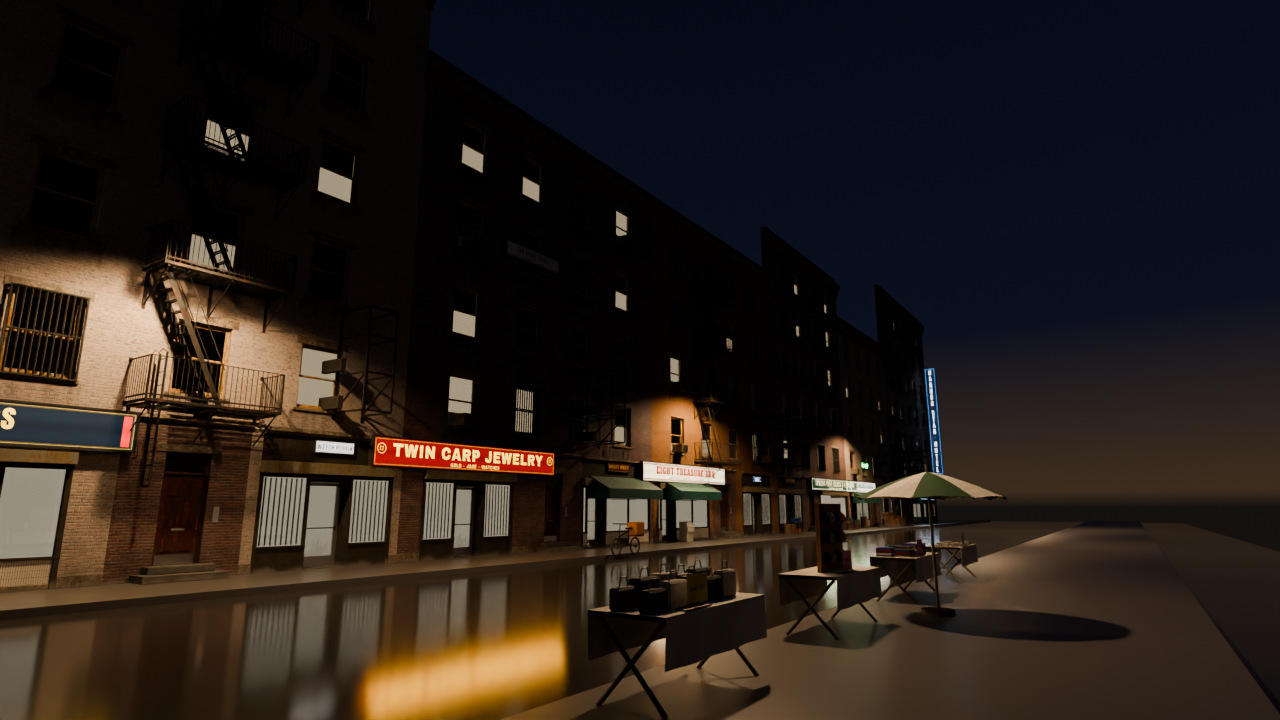
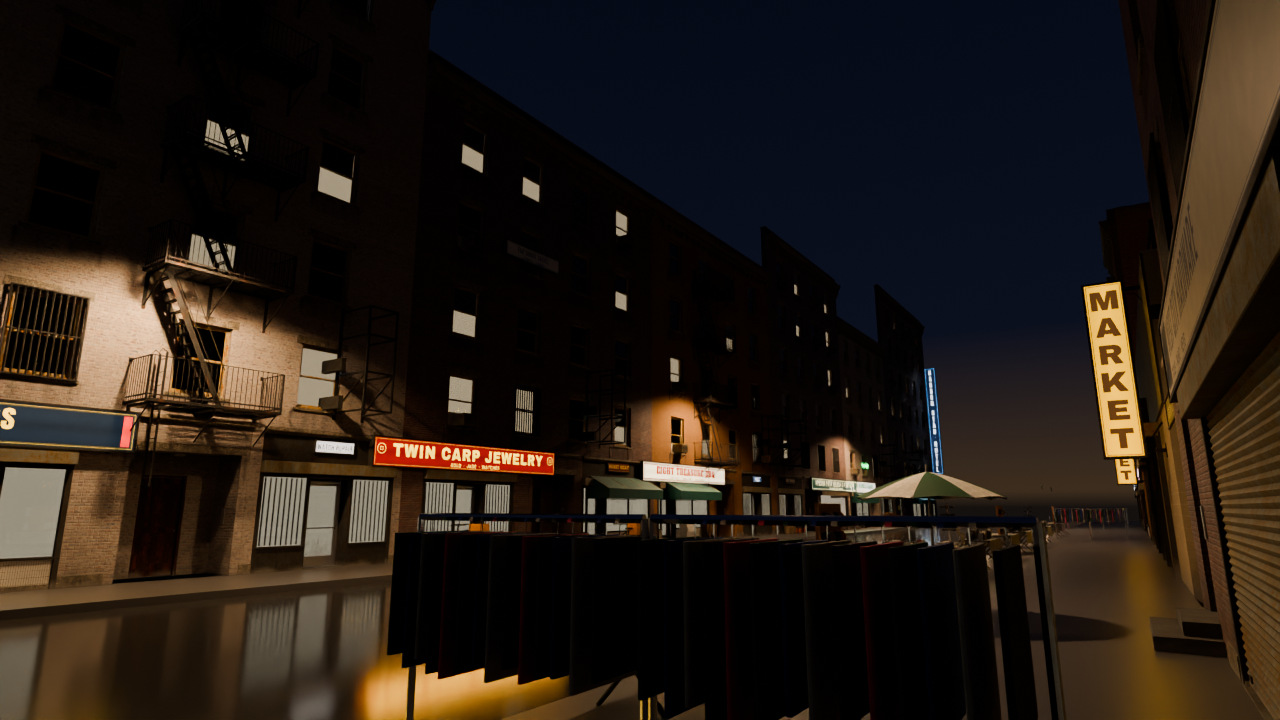
Canal Street round 2 finished: the signs on every front, the checks for fit, stretch, signs and props, the worst view with every placed piece, six street views, chinatown_art.md, MAPS.md and the art README
Claude-Session: https://claude.ai/code/session_01HkcHdD7NbyxwnFfuuSpZY4

diff --git a/art/blender/assets/_chinatown_preview.py b/art/blender/assets/_chinatown_preview.py
@@ -125,7 +125,26 @@ def wash(col, p, colour, watts=120.0, size=(3.0, 0.6), facing=(0.0, -1.0, 0.0)):
 
 # ================================================================================================= pictures
 
-def canal_north(ctx, a):
+def level_ground(col):
+    """The level's walking surfaces as flat rectangles (level_chinatown.json `ground.surfaces`): asphalt at 0, the rest at the
+    kerb height 0.15 (a stand-in: the real street is the Block's street kit with wetness)."""
+    from assets import _chinatown_level as lv
+    asph = mat.flat("Prev_WetAsphalt", (0.035, 0.034, 0.033), 0.12)
+    walk = mat.flat("Prev_DampConcrete", (0.11, 0.105, 0.10), 0.32)
+    base = geo.box((100.0, 80.0, 0.02), bevel=0.0, name="PrevBase")
+    geo.transform(base, loc=(0.0, 0.0, -0.03))
+    base.data.materials.append(asph)
+    scene.link(base, col)
+    for sf in lv.level()["ground"]["surfaces"]:
+        w = sf["web"]
+        h = 0.02 if sf["surface"] == "asphalt" else 0.15
+        o = geo.box((w["maxX"] - w["minX"], w["maxZ"] - w["minZ"], h), bevel=0.0, name="PrevSurf")
+        geo.transform(o, loc=((w["minX"] + w["maxX"]) / 2, -(w["minZ"] + w["maxZ"]) / 2, h / 2 - (0.02 if h < 0.1 else 0.0)))
+        o.data.materials.append(asph if sf["surface"] == "asphalt" else walk)
+        scene.link(o, col)
+
+
+def canal_north(ctx, a, view=None):
     from assets import facade
     T0 = type(ctx)
     fctx = T0("facade", a)
@@ -154,25 +173,32 @@ def canal_north(ctx, a):
                 if sl.material and sl.material.name.startswith("MI_Interior_Dark"):
                     sl.link = "OBJECT"
                     sl.material = lit
-    ground(col, -60, 60, 10, 40, kerb_y=29.8, side=+1)
-    walk2 = geo.box((120, 5.0, 0.15), bevel=0.0, name="PrevWalkS")
-    geo.transform(walk2, loc=(0, 16.5, 0.0))
-    walk2.data.materials.append(bpy.data.materials["Prev_DampConcrete"])
-    scene.link(walk2, col)
-    for i, x in enumerate((-38.0, -34.0, -30.0, -26.0)):                        # the vendor table strip (web z -18.8..-17.8)
+    if view:
+        level_ground(col)
+    else:
+        ground(col, -60, 60, 10, 40, kerb_y=29.8, side=+1)
+        walk2 = geo.box((120, 5.0, 0.15), bevel=0.0, name="PrevWalkS")
+        geo.transform(walk2, loc=(0, 16.5, 0.0))
+        walk2.data.materials.append(bpy.data.materials["Prev_DampConcrete"])
+        scene.link(walk2, col)
+    for i, x in enumerate((-38.0, -34.0, -30.0, -26.0) if not view else ()):                        # the vendor table strip (web z -18.8..-17.8)
         put(ctx.K["SM_Prop_CT_VendorTable"], (x + 0.9, 18.3, 0.15), 0.0, 1.0, col)
         put(ctx.K["SM_Prop_CT_Goods_" + ("Bags", "Caps", "TShirts", "Discs")[i]], (x + 0.9, 18.3, 0.15 + 0.753), 0.0, 1.0, col)
         put(ctx.K["SM_Sign_CT_Placard"], (x + 0.4, 17.95, 0.15 + 0.753), 0.0, 1.0, col,
             ("PlacardBags", "PlacardThree", "PlacardThree", "PlacardCDs")[i])
-    put(ctx.K["SM_Prop_CT_MarketUmbrella"], (-31.0, 17.4, 0.15), 0.0, 1.0, col)
-    put(ctx.K["SM_Prop_CT_EBike"], (-22.5, 29.2, 0.15), 180.0, 1.0, col)
-    # the shops' goods on the sidewalk (the level's spill colliders): N4's dried goods and grocery produce, N3's crates
-    for x, key in ((-0.2, "DryGoods"), (8.2, "Produce_Citrus"), (9.8, "Produce_Mixed"), (11.4, "Produce_Greens"),
-                   (-13.0, "StyrofoamBoxes"), (14.6, "HandTruck")):
-        put(ctx.K["SM_Prop_CT_" + key], (x, 32.35, 0.15), 0.0, 1.0, col)
-    put(ctx.K["SM_Prop_CT_FruitStand"], (23.7, 32.3, 0.15), 0.0, 1.0, col)
-    render.rig_night(lamp=(-30.0, 21.0, 8.0), extra_lamps=[(-6.0, 21.0, 8.0), (18.0, 21.0, 8.0), (-36.0, 30.4, 8.0), (-12.0, 30.4, 8.0),
-                                                       (12.0, 30.4, 8.0)], lamp_watts=1800.0, sky=0.8)
+    if not view:
+        put(ctx.K["SM_Prop_CT_MarketUmbrella"], (-31.0, 17.4, 0.15), 0.0, 1.0, col)
+        put(ctx.K["SM_Prop_CT_EBike"], (-22.5, 29.2, 0.15), 180.0, 1.0, col)
+        # the shops' goods on the sidewalk (the level's spill colliders): N4's dried goods and grocery produce, N3's crates
+        for x, key in ((-0.2, "DryGoods"), (8.2, "Produce_Citrus"), (9.8, "Produce_Mixed"), (11.4, "Produce_Greens"),
+                       (-13.0, "StyrofoamBoxes"), (14.6, "HandTruck")):
+            put(ctx.K["SM_Prop_CT_" + key], (x, 32.35, 0.15), 0.0, 1.0, col)
+        put(ctx.K["SM_Prop_CT_FruitStand"], (23.7, 32.3, 0.15), 0.0, 1.0, col)
+    if view:
+        render.rig_night(lamp=view["lamps"][0], extra_lamps=view["lamps"][1:], lamp_watts=1800.0, sky=0.8)
+    else:
+        render.rig_night(lamp=(-30.0, 21.0, 8.0), extra_lamps=[(-6.0, 21.0, 8.0), (18.0, 21.0, 8.0), (-36.0, 30.4, 8.0), (-12.0, 30.4, 8.0),
+                                                           (12.0, 30.4, 8.0)], lamp_watts=1800.0, sky=0.8)
     sun = bpy.data.lights.new("PrevCityGlow", "SUN")                            # the rig's key: cool city glow, no shadow (11.1)
     sun.energy, sun.color, sun.use_shadow = 0.04, (0.56, 0.65, 0.84), False
     so = bpy.data.objects.new("PrevCityGlow", sun)
@@ -193,7 +219,10 @@ def canal_north(ctx, a):
                 else:
                     wash(rig, (x, y - 1.0, z + F["h"] / 2), F["glow"], 60.0, (0.6, F["h"]), (0, -1, -0.2))
     render.look(render.VIEW, render.LOOK_NIGHT, 0.2)
-    render.cam_look((-43.0, 14.8, 1.75), (-16.0, 33.0, 8.5), lens=20, name="Cam_CanalNorth")
+    if view:
+        render.cam_look(view["eye"], view["target"], lens=view.get("lens", 20), name="Cam_" + view["name"])
+    else:
+        render.cam_look((-43.0, 14.8, 1.75), (-16.0, 33.0, 8.5), lens=20, name="Cam_CanalNorth")
 
 
 def market(ctx, a):
@@ -307,7 +336,24 @@ def render_all(ctx):
         cells = json.load(open(os.path.join(paths.texture_set("Sign_CT_Atlas1"), "set.json")))["cells"]
         atlas.preview_sheet(os.path.join(PV, "ct_sign_atlas.jpg"), cells, 1280)
         ctx.log("preview ct_sign_atlas.jpg")
-    for name, fn in (("ct_market", market), ("ct_street", street), ("ct_canal_north", canal_north)):
+    import functools
+    # round 2: the finished streets from the player's eye (Blender metres; web z = -y)
+    VIEWS = {
+        "ct_canal_start": dict(name="Start", eye=(-41.0, 24.0, 1.7), target=(-12.0, 28.0, 3.5), lens=18,
+                               lamps=[(-34.0, 22.0, 8.0), (-14.0, 22.0, 8.0), (-34.0, 30.4, 8.0), (-12.0, 30.4, 8.0), (10.0, 22.0, 8.0)]),
+        "ct_canal_east": dict(name="East", eye=(-3.0, 23.0, 1.7), target=(24.0, 17.5, 3.5), lens=20,
+                              lamps=[(2.0, 22.0, 8.0), (22.0, 22.0, 8.0), (30.0, 22.0, 8.0), (14.0, 30.4, 8.0), (-6.0, 30.4, 8.0)]),
+        "ct_mott": dict(name="Mott", eye=(13.0, 18.0, 1.7), target=(13.0, -8.0, 3.0), lens=20,
+                        lamps=[(13.0, 12.0, 8.0), (13.0, 0.0, 8.0), (13.0, -10.0, 8.0), (9.5, 24.0, 8.0)]),
+        "ct_square": dict(name="Square", eye=(22.0, -3.5, 1.7), target=(38.0, -17.0, 3.0), lens=18,
+                          lamps=[(26.0, -6.0, 8.0), (36.0, -6.0, 8.0), (30.0, -12.0, 8.0), (40.0, -14.0, 8.0)]),
+        "ct_alley": dict(name="Alley", eye=(-28.0, 12.5, 1.7), target=(-28.0, -12.0, 3.5), lens=20,
+                         lamps=[(-28.0, 10.0, 8.0), (-28.0, 0.0, 8.0), (-28.0, -10.0, 8.0)]),
+        "ct_yard": dict(name="Yard", eye=(-4.0, -7.0, 1.7), target=(-16.0, -4.0, 3.0), lens=18,
+                        lamps=[(-8.0, -4.0, 8.0), (-18.0, -4.0, 8.0), (-2.0, -9.0, 8.0)]),
+    }
+    for name, fn in (("ct_market", market), ("ct_street", street), ("ct_canal_north", canal_north)) + tuple(
+            (n, functools.partial(canal_north, view=v)) for n, v in VIEWS.items()):
         if not want(name):
             continue
         for c in list(bpy.data.collections):

diff --git a/art/blender/assets/_chinatown_check.py b/art/blender/assets/_chinatown_check.py
@@ -148,8 +148,42 @@ def check_outputs():
     pl = load(os.path.join(paths.out, "placements", "placements_chinatown.json"))
     unknown = sorted({e["mesh"] for e in pl["instances"] if e["mesh"] not in shared})
     noface = [e["mesh"] for e in pl["instances"] if e.get("face") and "atlas_uv" not in e]
+    check_fit(pl, shared)
     report(not unknown and not noface, "placements", "%d instances of %d meshes, unknown %s, faces without a cell %s"
            % (pl["count"], len({e["mesh"] for e in pl["instances"]}), unknown or 0, noface or 0))
+
+
+def check_fit(pl, shared):
+    """11 fit      every structure's vertices inside its lane D colliders (or a named allowed region), 0 unexplained; every
+                 structure placed at its colliders' min corner; every north-row alcove is the real recess
+       12 stretch  no instance anywhere is scaled (the review's rule)
+       13 signs    every shop front of every face has a sign on its face within 8 m (assets/_chinatown_streets.sign_coverage)
+       14 props    every prop of lane D that has a mesh stands on its colliders: the worst overhang"""
+    from assets import _chinatown_level as lv
+    fit = os.path.join(paths.out, "chinatown", "fit_chinatown.json")
+    if not os.path.exists(fit):
+        report(False, "fit", "no %s" % fit)
+        return
+    rep = load(fit)
+    bad = {k: v["outside_unexplained"] for k, v in rep["structures"].items() if v["outside_unexplained"]}
+    placed = {e["mesh"]: e for e in pl["instances"] if e["role"] == "structure"}
+    off = []
+    for name, piv, _cols in lv.struct_places():
+        e = placed.get(name)
+        if not e or max(abs(a - b) for a, b in zip(e["blender_m"], piv)) > 1e-3:
+            off.append(name)
+    report(not bad and not off and len(rep["structures"]) == len(lv.STRUCTS), "fit",
+           "%d structures fitted to %d colliders of %s: %d vertices outside, unexplained %s, misplaced %s"
+           % (len(rep["structures"]), sum(v["colliders"] for v in rep["structures"].values()), rep["level"],
+              sum(v["outside_colliders"] for v in rep["structures"].values()), bad or 0, off or 0))
+    scaled = [e["mesh"] for e in pl["instances"] if e.get("scale")]
+    report(not scaled, "stretch", "%d instances, %d scaled %s" % (pl["count"], len(scaled), sorted(set(scaled))[:5] or ""))
+    from assets import _chinatown_streets as st
+    nfr, miss = st.sign_coverage(pl["instances"])
+    report(not miss, "signs", "%d shop fronts, every one with a sign over it; without: %s" % (nfr, miss or 0))
+    worst = max((r["overhang_m"] for r in pl.get("propFit", [])), default=0.0)
+    report(worst <= 1.1, "props", "%d prop groups on their colliders, worst overhang %.2f m (jersey barriers 3 m on shorter boxes)"
+           % (len(pl.get("propFit", [])), worst))
 
 
 def check_views():
@@ -164,8 +198,11 @@ def check_views():
         return
     for b, r in rows.items():
         print("    %s: %s" % (b, r))
-    report(prox <= 550000, "views", "worst view 1, north row: %d triangles with every module at LOD0, %d with the far proxies past "
-           "%.0f m (budget 1.5 M, aim 1.1 M for the whole view; the north row's share at most 0.55 M)" % (full, prox, lod.LOD_SWITCH))
+    north = sum(r["trianglesDrawn"] for b, r in rows.items() if b in ("N1", "N2", "N3", "N4", "N5", "N6"))
+    report(prox <= 1500000 and north <= 550000, "views",
+           "worst view 1, every placed piece in the frustum: %d triangles with every module at LOD0, %d with the far proxies past "
+           "%.0f m (budget 1.5 M; aim 1.1 M: %s); the north row's share %d (at most 0.55 M)"
+           % (full, prox, lod.LOD_SWITCH, "met" if prox <= 1100000 else "over by %d, the props' LODs are the lever" % (prox - 1100000), north))
 
 
 def check_block():

diff --git a/art/blender/assets/_chinatown_streets.py b/art/blender/assets/_chinatown_streets.py
@@ -147,6 +147,8 @@ DEVIATIONS = {
                                        "alley wall at the same z and height"),
     "m.letters": dict(why="the frame stands on lane D's four legs (x -22 .. -2): the 12 m letters centre on the legs (x -12), "
                           "1 m east of lane D's point"),
+    "arcade.kiosk.3": dict(x=33.58, why="lane D's point (x 32.55) is 1.05 m out in the arcade's aisle: the board is mounted on the "
+                                         "east wall (x 33.6) at the same z and height, over the narrow front that has no other sign"),
     "lanterns": dict(y=6.25, why="lane D's point (y 4.3) is in front of the banquet band (3.95 .. 4.85): the cable is fixed at "
                                  "6.25 so the lanterns hang clear above the band, over the doors"),
 }
@@ -175,8 +177,10 @@ def ground(F, brick, segs, out):
     for seg in segs:
         k = seg[0]
         if k == "pier":
-            out.append(fe(F, pier_mesh(brick, seg[1]), s, 0.0, 0.0, "pier"))
-            s += seg[1]
+            parts = max(1, int(math.ceil(seg[1] / 4.2 - 1e-9)))              # a wide wall is made of piers of at most 4.2 m
+            for _i in range(parts):
+                out.append(fe(F, pier_mesh(brick, seg[1] / parts), s, 0.0, 0.0, "pier"))
+                s += seg[1] / parts
         elif k == "front":
             f, sign = seg[1], seg[2]
             c = FRONTS[f]
@@ -404,6 +408,9 @@ def data_signs(shops, out, report):
         x, y = F.at(s_c - ww / 2, -d)
         role = {"band": "sign band", "kiosk": "shop sign", "board": "board", "poster": "poster", "neon": "neon",
                 "arch": "arch sign"}[kind]
+        if kind == "neon":                                   # exposed neon is its own mesh: no atlas cell
+            extra["neon"] = fk
+            fk = None
         out.append(mk(carrier, x, y, zb, rot, bld, role, face=fk, faceKey=F.key, **extra))
 
 
@@ -411,7 +418,7 @@ def data_signs(shops, out, report):
 
 # catalogue name -> [(mesh, length along its X, width along its Y)] (tiled along the collider's long side), options
 PROPS = {
-    "stall_counter": ([("SM_Prop_CT_StallCounter_2m", 2.04, 1.876), ("SM_Prop_CT_StallCounter_2p5m", 2.54, 1.876)], {}),
+    "stall_counter": ([("SM_Prop_CT_StallCounter_2m", 2.04, 1.876)], {}),
     "fish_counter": ([("SM_Prop_CT_FishCounter", 2.0, 1.03)], {}),
     "pallet_stack": ([("SM_Furn_PalletStack_A", 1.23, 1.03)], {}),
     "pallet_single": ([("SM_Furn_Pallet", 1.2, 1.0)], {}),

diff --git a/art/blender/assets/_chinatown_place.py b/art/blender/assets/_chinatown_place.py
@@ -136,7 +136,8 @@ def ground(key, B, out):
             F = names.FACES[B["band"]]
             out.append(entry(F["carrier"], s + c / 2 - F["w"] / 2, 2.76, -0.075 - 0.20, x0, key, "sign band", face=B["band"]))
         elif sign in ("ForLease", "ForRent"):
-            out.append(entry(names.FACES[sign]["carrier"], s + 0.15, 1.35, -0.09, x0, key, "vacant sign", face=sign))
+            out.append(entry(names.FACES[sign]["carrier"], s + c / 2 - names.FACES[sign]["w"] / 2, 1.35, -0.09, x0, key, "vacant sign",
+                             face=sign))
         else:
             F = names.FACES[sign]
             z = 3.05 if F["kind"] == "kiosk" else 3.10

diff --git a/art/blender/assets/chinatown.py b/art/blender/assets/chinatown.py
@@ -48,7 +48,7 @@ BUDGET = {
     "SM_Prop_CT_EBike": 6000, "SM_Prop_CT_": 6000, "SM_Facade_CT_Far_": 12000, "SM_Struct_CT_MarketHall": 40000, "SM_Struct_CT_ColdRoom": 6000,
     "SM_Struct_CT_RoofBulkhead": 4000, "SM_Struct_CT_YardStair": 12000, "SM_Struct_CT_SidewalkShed": 10000,
     "SM_Struct_CT_BakeryKitchen": 12000, "SM_Struct_CT_Arcade": 8000, "SM_Struct_CT_BanquetFacade": 40000,
-    "SM_Facade_CT_Alcove_": 4000, "SM_Facade_CT_Ground": 4000, "SM_Facade_CT_Head_": 1500, "SM_Facade_CT_": 6000,
+    "SM_Facade_CT_Alcove_": 9000, "SM_Facade_CT_Ground": 4000, "SM_Facade_CT_": 6000,
 }
 
 

diff --git a/docs/unreal/maps/chinatown_art.md b/docs/unreal/maps/chinatown_art.md
@@ -1,0 +1,99 @@
+# Canal Street art, round 2: the other buildings, the signs, the props and the fitted structures (lane A-CT)
+
+What MAPS.md lane A-CT added without Unreal and without the box (2026-11-26), measured against
+[chinatown.md](chinatown.md) 4, 13 and 14 and the level data `tools/levels/data/level_chinatown.json`. Round 1 (the kit, the
+atlas, the north row N1 to N6) is in `art/blender/README.md`. The code is `art/blender/assets/chinatown.py` and its
+`_chinatown_*.py` modules; the outputs are in `art/out` (git-ignored), the pictures in `art/previews/maps/ct_*.jpg`.
+
+```
+venv/bin/python art/blender/build.py build chinatown --export                 # 195 meshes, placements, fit report (about 80 s)
+venv/bin/python art/blender/build.py build chinatown --export --preview --samples 12   # ct_canal_start, _east, ct_mott,
+                                                                               #   ct_square, ct_alley, ct_yard + the round-1 views (8 min)
+venv/bin/python art/blender/assets/_chinatown_check.py [--build]               # the lane's checks
+```
+
+## 1. What was placed
+
+1947 instances (art/out/placements/placements_chinatown.json), all pure arithmetic on the level's faces
+(`_chinatown_streets.py`, no Blender): every building face the player sees is a `Face` (wall plane, outward normal, start,
+length) and modules run along it.
+
+| Building | Faces | Ground storey |
+|---|---|---|
+| W1 (6 storeys) | Canal front, Lantern Alley A wall | the shut hardware store, KioskPhones narrow front, the residents' entrance; the alley wall: three back doors, windows, escapes on bays 1, 4, 6 |
+| W3, MOON GATE BAKERY (5) | Canal (the 7.2 m bakery front with its 2.0 m doorway), Mott, the rear and west walls over the kitchen and market roofs | display windows and a held-open door (`SM_Facade_Shopfront_CT_Bakery`) |
+| S1, S2, S3 | the backs on Lantern Alley B; S3's Mott front | back doors, barred windows; S3 Mott: jewellery, a coach office door, grocery |
+| E1a, E1b | Canal, Mott and Square fronts, the two arcade mouths (a 4.2 m brick head over each) | restaurant with awning, jewellery, grocery, kiosks |
+| Arcade | its two side walls: three kiosks behind glass west, the workshop door (BIG LIGHT SIGNS) east | kiosk fronts |
+| E2, the banquet hall | `SM_Struct_CT_BanquetFacade` (see 3) | |
+
+North-row alcoves are now the real recess (`SM_Facade_CT_Alcove_<brick>`: 2.4 m opening, 1.0 m deep, soffit at 2.85 m, the
+residents' door in the back wall), replacing the flat entrance. Every wide end pier is made of piers of at most 4.2 m; no
+end fill, pier or cornice end is narrower than 0.15 m (E1a's Mott face uses four bays so its fills are 1.65 m, not 0.10).
+
+**No instance is scaled** (checked: 0 of 1947). Piers, fills, parapet fills, cornice ends and fascias are built at the width
+the table needs; the ground bays, heads and alcoves are their own meshes.
+
+**Signs.** Every sign of lane D's `signage` list that is not on the north row is placed on its face, except the decals
+(graffiti, the alley stencil: not built yet) and the market's exit box (drawn into the hall's shell). 32 shop fronts, every
+one with a sign over it (a check). Lane D's points the art moved, each with its reason in the instance (`deviation`):
+SEVEN STARS COACH (its 8 m band overlapped both neighbours: mounted on the second storey over the office door), the opera
+poster (its point was in the middle of Lantern Alley A: on W1's alley wall at the same z), the rooftop letters (centred on
+lane D's four legs), the lanterns (hung at 6.25 m, clear above the banquet band), arcade kiosk 3 (1.05 m out in the aisle:
+on the east wall over the one front without another sign). Fronts lane D gave no sign get a generic lightbox or stall board
+(KEYS CUT, WATCH REPAIR, ROAST MEAT, FRUIT...: words with no name to search).
+
+**Props** (172 groups on lane D's `propPlacements`): stall counters in four rows with goods, tarps and pendant bulbs, fish
+counters with tank and scale, vendor tables with goods, garment rails, crates, pallets, cones, drums, boxes, newspaper boxes,
+lamps (arm over the roadway), card tables with stools, benches, hoops, signposts, meters, skylights, condensers. Each tiles
+along its collider's long side; the worst overhang is 1.05 m (a 3 m jersey barrier on a shorter box). Not placed, with
+the reason in `unmappedProps` in the placements file: the vehicles (their lane), hydrants (46k triangles: needs a LOD),
+planters (42k), dumpling and hotpot carts, the bakery, kitchen, dub-room, workshop and banquet interior props (no meshes
+yet), the fruit stand (2.4 m against a 0.8 m collider), small trash bags, standpipes, bike racks, chair stacks, grease bins,
+roof vents and fans, antenna, dig fences, road plates, sandwich boards.
+
+## 2. Far proxies
+
+`SM_Facade_CT_Far_<building>` now exists for every facade building (N1..N6, W1, W3, S1, S2, S3, E1a, E1b), 10k triangles
+each, drawn past 30 m; round-2 proxies keep their world yaw and sit at their first face's start.
+
+## 3. Structures fitted to lane D's colliders
+
+Eight meshes, each measured vertex by vertex against its colliders (tolerance 15 mm, plus named allowed regions for overhead
+art, coping, gate hoods and door leaves folded against a wall): 4702 vertices outside the colliders, all inside a named
+allowed region, 0 unexplained (`art/out/chinatown/fit_chinatown.json`, check `fit`). Pivot = the colliders' min corner;
+placed at that point, yaw 0.
+
+| Mesh | Triangles / cap | What |
+|---|---|---|
+| `SM_Struct_CT_MarketHall` | 13.9k / 40k | the shell: block walls with the three Canal gates (rolled up under a corrugated fascia), the 1.0 m side door, the rear roll-up, roof slab with gravel, parapets and coping, floor, tile wainscot, four steel beams, fluorescent rows, skylight wells, the green exit box, B0 the storeroom |
+| `SM_Struct_CT_YardStair` | 4.5k / 12k | the climbable switchback on its 26 step boxes: diamond-plate treads, stringers, landings on posts, 48 mm rails inside the player-only guards, the solid space under it closed with sheeting |
+| `SM_Struct_CT_SidewalkShed_Mott` | 2.0k / 10k | plywood deck and parapet with the missing panel (drop R2), pipe posts in their boxes, joists and lamps |
+| `SM_Struct_CT_BakeryKitchen`, `_Arcade`, `_BanquetFacade`, `_ColdRoom`, `_RoofBulkhead_B0` | see the manifest | the one-storey kitchen with its walkable roof, the arcade soffit and frieze, E2's stucco fronts with the red lacquer doors and the raised dub-room roll-up, the cold room with its strip curtain, the roof Goons' door |
+
+## 4. Checks (`_chinatown_check.py`, all pass)
+
+english, names, files (195 assets), budgets (every asset within 13.2; the new rows: alcove 9k, ground bay 4k, struct caps
+above), atlas, **fit** (0 unexplained), **stretch** (0 scaled), **signs** (32 of 32 fronts), **props**, placements (209
+meshes, none unknown), **views**, block (Block files unchanged); with `--build`: validation (195 assets, 0 failing), budgets,
+thin members (none under 34 mm). `tools/levels/check_level.py --level chinatown`: 0 failures. The level data was not changed.
+
+**The worst view** (the start, looking east, every placed piece in the frustum): 3.09 M triangles at LOD0, **1.18 M with the
+far proxies** past 30 m: under the 1.5 M ceiling, 81k over the 1.1 M aim. The north row's share is 413k (at most 0.55 M).
+The largest part is the props: 14 trash cans (6.4k each, 90k), 4 pallet stacks (13k each), 12 stall counters, 24 milk
+crates. LODs for those four (about 60 percent of the overage) bring the view under the aim.
+
+## 5. Pictures
+
+`ct_canal_start`, `ct_canal_east`, `ct_mott`, `ct_square`, `ct_alley`, `ct_yard`: night, wet, from the player's eye, 1280 x 720,
+12 samples. The ground is a flat stand-in made from the level's `ground.surfaces`; props whose meshes belong to the Block's
+families (vehicles, hydrants) are not in the pictures.
+
+## 6. Open
+
+- LODs for the trash can, pallet stack, stall counter and milk crate (the 1.1 M aim); the hydrant (46k) and planter (42k) LODs.
+- The interior props (bakery, kitchen, dub room, workshop, banquet tables, stage), the carts, the stone lions, the vehicles.
+- The decals (graffiti, the alley stencil) and the near-ground wear on the new faces.
+- The Unreal side: import, the placement actors from `placements_chinatown.json`, the far proxies as LOD1 / HLOD, a look at the
+  stair and the market under the real light on the box. Nothing here has been seen in the engine.
+- The street sign's post crosses its "CANAL ST" face in `ct_mott` (cosmetic, from the carrier).

diff --git a/art/blender/README.md b/art/blender/README.md
@@ -130,7 +130,7 @@ retargeting. The reference files (`art/out/epic/`, never committed: Epic's licen
 | `buzzard` | The armed quadcopter, nose +X (briefs `characters.json` buzzard*): `SK_Buzzard` (140k tris; rigid skin, bones `body` (root), `prop_fl/fr/rl/rr` at the hubs (spin about local Z; fl, rr counter-clockwise from above), `gimbal` (0.17, 0, -0.085: yaw Z, pitch Y, + = down), sockets `Eye`, `GunMuzzle` (on gimbal), `Strobe_Port/_Starboard/_Tail`, `Hub_FL/FR/RL/RR`; every bone at rest with the drone's axes; proof `SK_Buzzard.glb.verify.json`). One unique 4K set `Buzzard` (BC, N, ORM, E) read by three slots: `M_Buzzard` (no emission), `M_Buzzard_Eye`, `M_Buzzard_Strobe` (E x the game's eye brightness / strobe flash). Modelled: faceted hull and deck, hooked beak and brow, V tail, carbon arms with folding joints and zip-tied phase looms, motor pods (finned ESC heat sinks, 18-tooth wound stators behind vented bells and spoked caps), twisted-aerofoil two-blade props, skids, strapped 6S pack with XT90 leads, two-axis gimbal with the lens, the slung gun on a bar with hose clamps, L bracket, solenoid, feed chute and loom. The UV layout is cached by mesh hash (`textures/Buzzard/uv_cache.npz`; smart projection is not reproducible between processes). Effects: `SM_Fx_BuzzardRotorBlur` (disc r 0.185, planar UVs, radial alpha in BC alpha, set 512), `SM_Fx_BuzzardBolt` (+ `_Head`; u along the streak, set 512). Wreck: 14 `SM_Fx_BuzzardWreck_*` (arms with pods, hull halves, nose, tail, gimbal, gun, skids, clean and two bent props) cut from the skinned mesh with jagged caps on the tiling `TS_Composite_Fracture` (0.08 m, 512), pivot at each piece's centre, spawn offset in the manifest notes, Wear R = scorch. `--only drone,fx,wreck`; previews `buzzard_hero/_under/_detail/_wire/_wreck` (`MI_PREVIEWS=`). |
 | `el` | `SM_El_Column`, `SM_El_Bent`, `SM_El_GirderSpan_10m`, `SM_El_Deck_10m`, `SM_El_Lamp`. Placement: bents at x = 10 k; columns at (x, +-4.6, 0); bent, span and deck at (x, 0, 0); lamps at (x + 5, +-2.1, 6.02). Dimensions are the game's (`src/level/el.js`, `docs/unreal/spec/05-level.md`). |
 | `structures` | The level structures that were collider boxes, each fitted inside or flush with its `level.json` colliders (`done()` measures every vertex against them; overhead parts are listed per mesh): `SM_Struct_ElMezzanine`, `_ElBridge_S/_N` (+ the posts under the stair heads), `_ElStair` (both sides, symmetric), `_ElPlatformEnd_S/_N`, `_ElPlatform_10m` (west of the bounds), `_Kiosk_News/_Candy`, `_ProduceStand` (modelled fruit, flat `MI_Fruit_*`), `_Hoarding_WestS/_WestRoad/_WestN/_LotW/_LotE` (wall modules: built in their own frame, face -Y), `_DigPen` (+ steam stack), `_LoadingDock`, `_Garages`, `_ShopFloor/_ShopRoof/_ShopColumn/_ShopMezzanine/_ShopStair/_ShopSafe/_ShopExtractorFan(+_Blades)/_ShopExitSign`. Placement: `art/out/placements/structures.json` (buildings.json form + the collider indices each instance draws + the fit report). Faces `Sign_<Key>` drawn in `assets/_structures_art.py` (fictional content; `--force` redraws). `art/blender/upgrade_sets.py` re-bakes galvanised and road paint at 2048 and fills slot tile sizes in the manifest. Previews `structures_*.jpg`. |
-| `chinatown` | Canal Street, Level 2 (MAPS.md lane A-CT; night, wet; signs in ENGLISH ONLY, every name invented, listed in `assets/_chinatown_names.py`, which fails the build on any other character). 66 meshes, 248k triangles in all, each within chinatown.md 13.2: shop fronts `SM_Facade_Shopfront_CT_{Wide,Narrow,Restaurant,Jewelry,Grocery,Shut}` (between the Block's piers), `SM_Facade_CT_{Fascia_1m,WindowGrille,StackedSignRail,Awning_Box_3m/4m/6m}`; sign carriers `SM_Sign_CT_{Band_6/8/10m,Blade_4/6/12m,Kiosk_1m/3m,Board,StallBoard,Poster_A/B,Placard,StreetBlade,Arch}` with no words on them (slot `M_Sign_CT_Face` on 0..1 UVs; the MI picks its cell of the atlas `Sign_CT_Atlas1`, 4096, 45 faces, `assets/_chinatown_atlas.py`), exposed neon `SM_Sign_CT_Neon_*` and the rooftop pan letters `SM_Sign_CT_RooftopFrame`; market, vendor, lantern, street, Square and roof props `SM_Prop_CT_*` on tinted scan sets and flat slots (no unique bakes). Placements of the Canal north row N1..N6 from the Block's facade kit and this kit: `assets/_chinatown_place.py` -> `art/out/placements/placements_chinatown.json`. Checks: `assets/_chinatown_check.py` (`--build` for the in-memory validation). Lane files and the archive: `art/out/chinatown/`, `art/out/maps-chinatown.tar`. Pictures: `art/previews/maps/ct_*.jpg`. |
+| `chinatown` | Canal Street, Level 2 (MAPS.md lane A-CT; night, wet; signs in ENGLISH ONLY, every name invented, listed in `assets/_chinatown_names.py`, which fails the build on any other character). 66 meshes, 248k triangles in all, each within chinatown.md 13.2: shop fronts `SM_Facade_Shopfront_CT_{Wide,Narrow,Restaurant,Jewelry,Grocery,Shut}` (between the Block's piers), `SM_Facade_CT_{Fascia_1m,WindowGrille,StackedSignRail,Awning_Box_3m/4m/6m}`; sign carriers `SM_Sign_CT_{Band_6/8/10m,Blade_4/6/12m,Kiosk_1m/3m,Board,StallBoard,Poster_A/B,Placard,StreetBlade,Arch}` with no words on them (slot `M_Sign_CT_Face` on 0..1 UVs; the MI picks its cell of the atlas `Sign_CT_Atlas1`, 4096, 45 faces, `assets/_chinatown_atlas.py`), exposed neon `SM_Sign_CT_Neon_*` and the rooftop pan letters `SM_Sign_CT_RooftopFrame`; market, vendor, lantern, street, Square and roof props `SM_Prop_CT_*` on tinted scan sets and flat slots (no unique bakes). Placements of the Canal north row N1..N6 from the Block's facade kit and this kit: `assets/_chinatown_place.py` -> `art/out/placements/placements_chinatown.json`. Checks: `assets/_chinatown_check.py` (`--build` for the in-memory validation). Lane files and the archive: `art/out/chinatown/`, `art/out/maps-chinatown.tar`. Pictures: `art/previews/maps/ct_*.jpg`. Round 2 (docs/unreal/maps/chinatown_art.md): 195 meshes, 544k triangles; the other buildings (W1, W3, S1 to S3, E1a/b, the arcade), lane D's signs and props, the real alcoves `SM_Facade_CT_Alcove_*`, ground bays, heads, the eight `SM_Struct_CT_*` fitted to the colliders (`chinatown/fit_chinatown.json`), far proxies for every facade building; 1947 placements, none scaled; pictures `ct_canal_start/east`, `ct_mott`, `ct_square`, `ct_alley`, `ct_yard`. |
 | `midtown` | Midtown rooftops, Level 3 (MAPS.md lane A-MT; night; English only, every name invented, listed in `assets/_midtown_names.py`, IPX the only real mark). 39 meshes, 143k triangles, each within midtown.md 14.2: roofs `SM_Roof_Deck_{Gravel,Pavers}_4m`, `SM_Roof_Parapet_{4,1}m_{Buff,Red}`, `SM_Roof_NamePanel_6m`, `SM_Roof_TankStand_{4,2}m`, `SM_Roof_WaterTank_{4p6,3p6}`, `SM_Roof_Bulkhead_{4x4,5x6}`, `SM_Roof_TankHouse_6x6`, `SM_Roof_MachineRoom_6x6`, `SM_Roof_HVAC_RTU_{L,M}`, skylight, vent, chimney, tar kettle, dish, antenna, work light, `SM_Roof_SteelStair_3p6`, `SM_Roof_StairHead_2p4`, `SM_Roof_{Plank,Pipe}Bridge_2p6x2`; screens `SM_Roof_Gantry_16m`, `SM_Sign_LEDWall_16x9` (G1 and its truss back), `SM_Roof_BillboardFrame_16x8` (C1), `SM_Sign_LEDWall_Tile_2m`, `SM_Sign_Ticker_4m`, `SM_Sign_TowerStack`; scaffold `SM_Scaf_{Flight,Landing}_2p4`, `SM_Scaf_Bay_Frame`, `SM_Scaf_Netting_Panel` (opaque), `SM_Scaf_Sign`. Members 6 cm and up (checked). Faces: `MT_Screens_A/_B` (16 slides, one opaque master `M_MI_Screen` on 0..1 UVs), `MT_Ticker`, `MT_Digits`, `MT_LEDMask`, `Sign_MT_Atlas1` (slot `M_Sign_MT_Face`). No new tiling set. Round 2: the square (`assets/_midtown_square.py`, 24 meshes `SM_Sq_*`, 30.7k triangles: THE STAND's tiers, wing sides and back scrim, THE BOOTH's walls, slot, desk, racks and monitors, granite planters, kiosks, food carts, cafe furniture, LED poles, jersey, water and crowd barriers, generator, road cases, cable ramps and drum), tower and HVAC variants sized to the level data; 68 meshes, 193k triangles. Placements `placements_midtown.json` (1,003, fitted to tools/levels/data/level_midtown.json: `fit.colliders` on 159 of them), lane files in `art/out/midtown/`, checks `_midtown_check.py` (fit, sq-emissive added), record docs/unreal/maps/midtown_art.md. |
 
 ## Adding a family (under 40 lines)

diff --git a/docs/unreal/MAPS.md b/docs/unreal/MAPS.md
@@ -230,6 +230,11 @@ of the new sections, so the old code path runs.
   names.md), the market and vendor goods atlas (CT_MarketGoods, 2K), the north row's far proxies, placements, the
   manifest. Made in stage 1
   without the box: art/blender/assets/chinatown.py (66 meshes, the atlas, the north-row placements, art/previews/maps/ct_*).
+  Round 2 (2026-11-26, offline): W1, W3, S1 to S3, E1a/b, the arcade and the market placed on their faces with lane D's signs
+  and props, the real 1.0 m alcoves, eight structures fitted to the colliders (0 unexplained vertices), far proxies for
+  every facade building, 195 meshes, 1947 instances, none scaled, every shop front signed; worst view 1.18 M triangles with
+  the proxies (ceiling 1.5 M, aim 1.1 M, prop LODs open). Detail, checks and the open list:
+  [maps/chinatown_art.md](maps/chinatown_art.md); previews ct_canal_start, ct_canal_east, ct_mott, ct_square, ct_alley, ct_yard.
 - **Acceptance:** triangle caps per asset and at most 300k per mesh; manifest bounds; previews; no real mark; facade.py
   and place_buildings.py give the Block's outputs byte for byte (A0 diff).
 - **Depends on:** D3 colliders; C for the faces. Estimate: 3 days.
